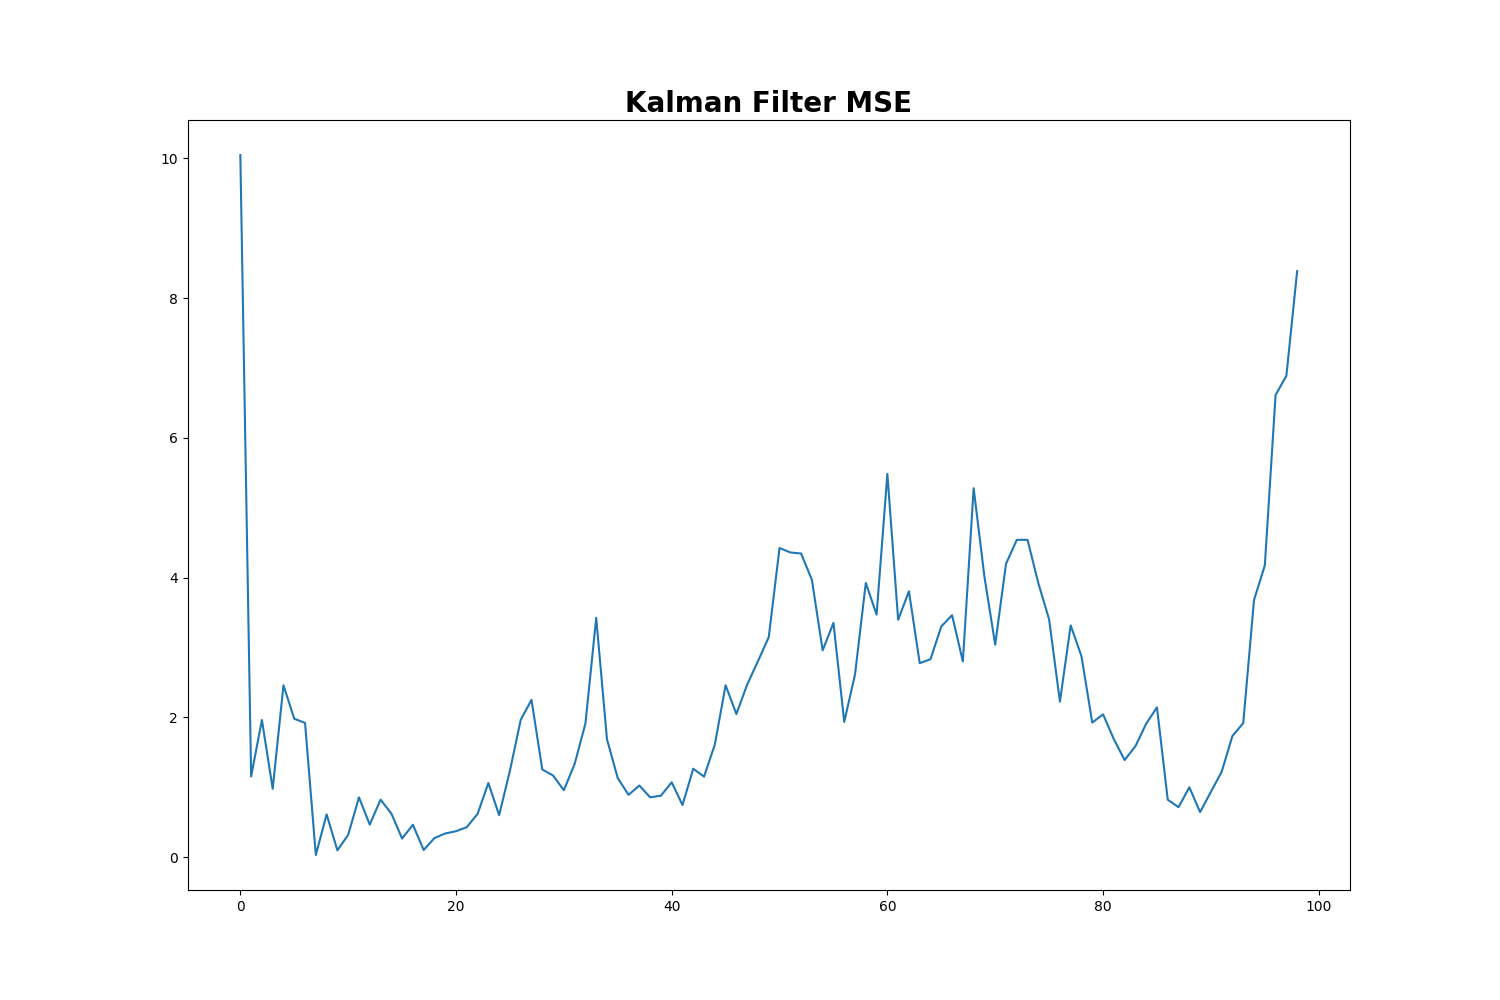
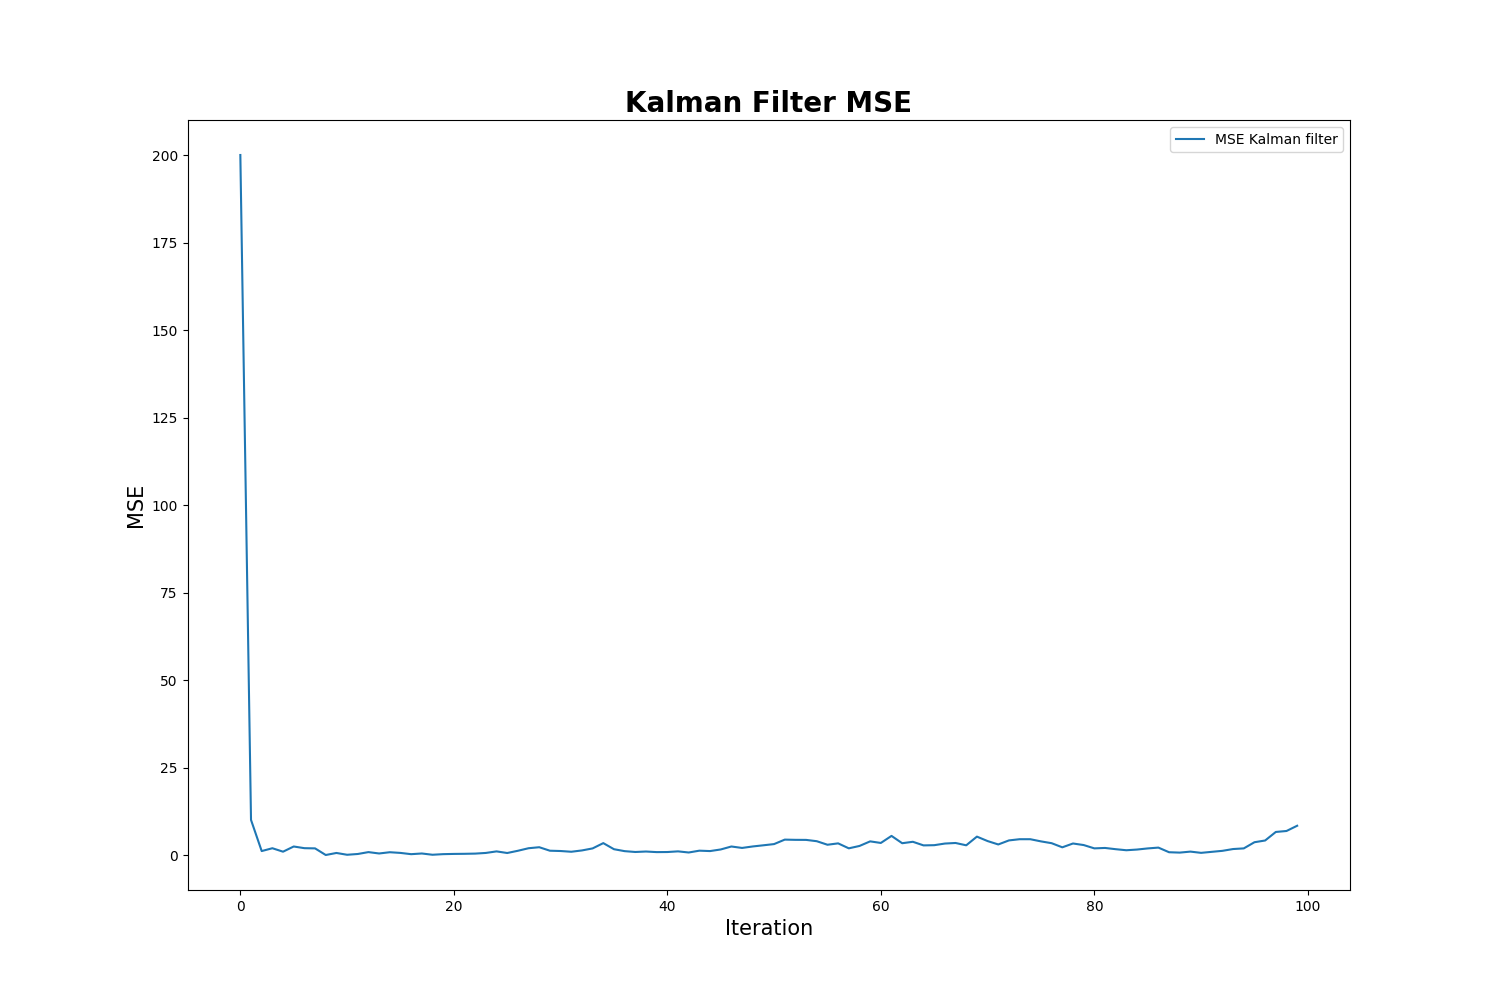
t

diff --git a/Part2/kalman_filter.py b/Part2/kalman_filter.py
@@ -15,6 +15,7 @@ dt = 0.1                # [sec]
 gamma = 0.5772          # Euler cste
 mu=1                    # Mu parameter for random acceleration Gumbel distribution
 beta=1                  # Beta parameter for random acceleration Gumbel distribution
+#initial state
 X0_moy = 10
 X0 = np.array([X0_moy,X0_moy,X0_moy,X0_moy])
 X_k = X0
@@ -78,7 +79,9 @@ def MSE_k(k):
 #------------------------------------
 
 MSE = 0
-MSE_arr = np.empty(N-1)
+MSE_arr = np.empty(N)
+MSE_arr[0] = MSE_k(0)
+MSE += MSE_k(0)
 
 for k in range(1,n):
     u_k = np.array([u_x[k],u_y[k]])
@@ -89,7 +92,7 @@ for k in range(1,n):
     update(y_k)
     X[k] = X_k
     MSE += MSE_k(k)
-    MSE_arr[k-1] = MSE_k(k)
+    MSE_arr[k] = MSE_k(k)
 
 MSE /= N
 print('MSE = ' + str(MSE))
@@ -109,6 +112,9 @@ fig = plt.savefig("plots/kalman_filter.png")
 # plt.show()
 fig_MSE = plt.figure(figsize=(15,10))
 fig_MSE = plt.title("Kalman Filter MSE",fontsize=20,fontweight='bold')
-fig_MSE = plt.plot(np.arange(0,N-1),MSE_arr)
-fig = plt.savefig("plots/kalman_MSE.png")
+fig_MSE = plt.plot(np.arange(0,N),MSE_arr,label='MSE Kalman filter')
+fig_MSE = plt.xlabel('Iteration',fontsize=15)
+fig_MSE = plt.ylabel('MSE',fontsize=15)
+fig_MSE = plt.legend()
+fig_MSE = plt.savefig("plots/kalman_MSE.png")
 # plt.show()
